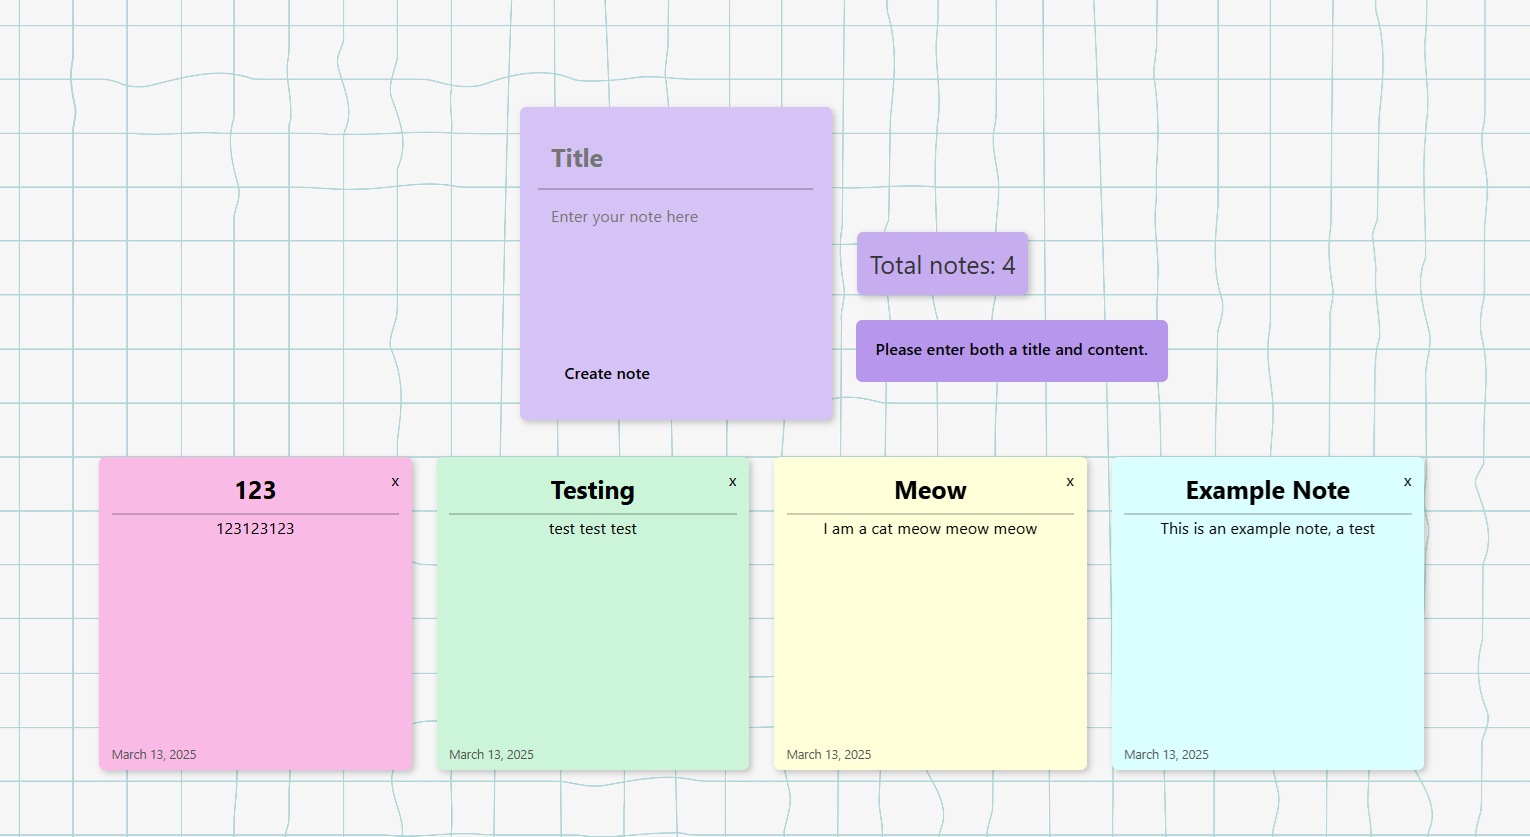
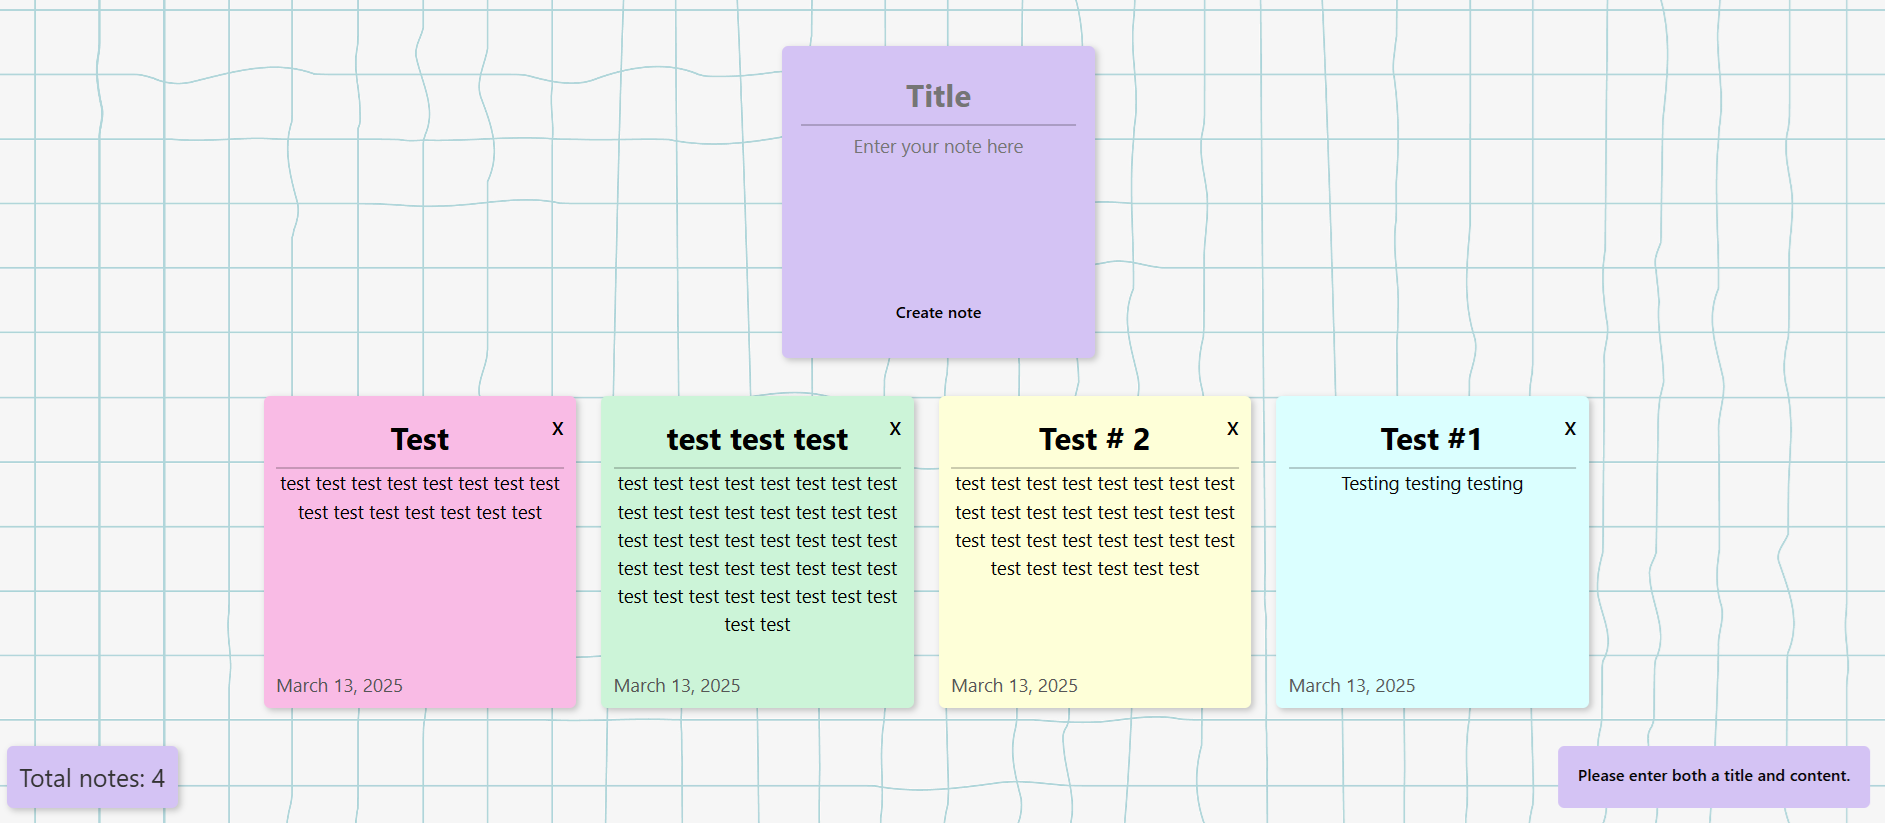
final draft

diff --git a/assets/css/main.css b/assets/css/main.css
@@ -8,7 +8,7 @@ body {
 .container {
     width: min(100% - 40px, 1080px);
     margin-inline: auto;
-    margin-top: 100px;
+    margin-top: 70px;
     text-align: center;
 }
 
@@ -26,6 +26,7 @@ form {
     display: flex;
     flex-direction: column; 
     background-color: #d4c3f4;
+    align-items: center;
     padding: 15px;
     border-radius: 5px;
     box-shadow: 2px 2px 5px rgba(0, 0, 0, 0.2);
@@ -36,22 +37,23 @@ form {
 .inputTitle, .inputContent {
     width: 100%;
     border: none;
+    text-align: center;
     background: transparent;
     font-size: 1rem;
-    padding: 10px;
+    padding: 5px;
     outline: none;
     resize: none;
 }
 
 .inputTitle {
     font-weight: 700;
-    font-size: 2rem;
+    font-size: 2.5rem;
     border-bottom: 2px solid rgba(0, 0, 0, 0.2); 
 }
 
 .inputContent {
     flex-grow: 1;
-    font-size: 1.3rem; 
+    font-size: 1.5rem; 
     resize: none; 
 }
 
@@ -65,45 +67,6 @@ form {
     font-weight: 500;
     font-size: 1.3rem;
     cursor: pointer;
-}
-
-.error-area {
-    position: fixed;
-    top: 270px;
-    right: 320px;
-    background-color: transparent;
-    transition: background-color 0.3s ease;
-    width: 250px;
-    height: 50px;
-    padding: 10px;
-    border-radius: 5px;
-    
-    &.has-error {
-        background-color: #b697ec;
-    }
-}
-
-.error-message {
-    margin: 0; 
-    font-size: 1.3rem;
-    font-weight: 600;
-    color: #000;
-    line-height: 2; 
-}
-
-.note-count {
-    background-color: #c5adf0; 
-    padding: 10px;
-    border-radius: 5px;
-    margin-top: 100px;
-    box-shadow: 2px 2px 5px rgba(0, 0, 0, 0.2);
-    font-size: 2rem;
-    color: #333;
-    text-align: center;
-}
-
-.note-count-value {
-    margin: 0; 
 }
 
 /* - - - - - - - - - - - - - - - - - */
@@ -132,14 +95,14 @@ section {
 
         p {
             margin: 0;
-            font-size: 1.3rem;
+            font-size: 1.5rem;
             flex-grow: 1;
 
             &.date-display {
-                font-size: 1rem;
+                font-size: 1.5rem;
                 color: #555;
                 position: absolute;
-                bottom: 5px;
+                bottom: 15px;
                 height: 15px;
             }
         }
@@ -150,7 +113,7 @@ section {
             right: 10px;
             background: transparent;
             border: none;
-            font-size: 1.3rem;
+            font-size: 2rem;
             cursor: pointer;
             color: #000; 
         }
@@ -163,9 +126,58 @@ section {
 }
 
 h2 {
-    font-size: 2rem;
+    font-size: 2.5rem;
     margin: 0;
     font-weight: 700;
     border-bottom: 2px solid rgba(0, 0, 0, 0.2); 
-    padding-bottom: 5px;
+    padding: 5px;
+}
+
+/* - - - - - - - - - - - - - - - - - */
+/* - - - - - Error Message  - - - - -*/
+/* - - - - - - - - - - - - - - - - - */
+
+.error-area {
+    position: fixed;
+    bottom: 15px;
+    right: 15px;
+    background-color: transparent;
+    transition: background-color 0.3s ease;
+    width: 250px;
+    height: 50px;
+    padding: 10px;
+    border-radius: 5px;
+    
+    &.has-error {
+        background-color: #d4c3f4;
+    }
+}
+
+.error-message {
+    margin: 0; 
+    font-size: 1.3rem;
+    font-weight: 600;
+    color: #000;
+    line-height: 2; 
+}
+
+/* - - - - - - - - - - - - - - - - - */
+/* - - - - - - Notes Counter- - - - -*/
+/* - - - - - - - - - - - - - - - - - */
+.note-count {
+    background-color: #d4c3f4; 
+    padding: 10px;
+    border-radius: 5px;
+    margin-top: 100px;
+    box-shadow: 2px 2px 5px rgba(0, 0, 0, 0.2);
+    font-size: 2rem;
+    color: #333;
+    text-align: center;
+    position: fixed;
+    bottom: 15px;
+    left: 15px;
+}
+
+.note-count-value {
+    margin: 0; 
 }

diff --git a/index.html b/index.html
@@ -29,16 +29,16 @@
                 rows="4"
               ></textarea>
               <button type="button" class="inputButton">Create note</button>
-            </form>
-            <div class="note-count">
-              <p class="note-count-value">Total notes: 0</p>
-            </div>
-          </div>
-          <div class="error-area">
-            <p class="error-message"></p>
+            </form>  
           </div>
         <section>
         </section>
+        <div class="note-count">
+          <p class="note-count-value">Total notes: 0</p>
+        </div>
+        <div class="error-area">
+          <p class="error-message"></p>
+        </div>
       </div> 
     </main>
   </body>

diff --git a/assets/js/app.js b/assets/js/app.js
@@ -62,11 +62,13 @@ function listEntries() {
         const formattedDate = formatDate(note.date);
         noteDiv.classList.add('note');
 
+        //I used chatGPT for how to use the innerHTML property 
         noteDiv.innerHTML = `
-            <h2>${note.title}</h2>
-            <p>${note.content}</p>
-            <p class="date-display">${formattedDate}</p>
-        `;
+          <h2>${note.title}</h2>
+          <p>${note.content}</p>
+          <p class="date-display">${formattedDate}</p>
+          <button onclick="deleteNote(${index})">x</button>
+          `;
 
         const deleteButton = document.createElement('button');
         deleteButton.textContent = 'x';

diff --git a/README.md b/README.md
@@ -1,6 +1,6 @@
 ## Sticky Notes
 
-This is the third for Object Oriented Javascript, a notes app. 
+This is the third assignment for Object Oriented Javascript, a notes app. 
 Below is a screenshot of how it is aligned on my browser.
 
 ![Alignment](./assets/img/alignment.png)
